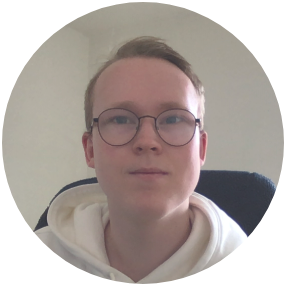
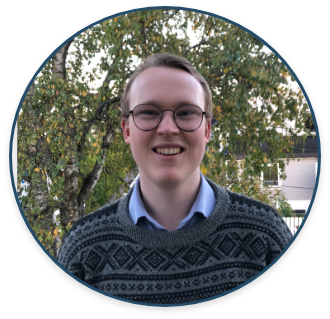
changed photos everywhere and added docker-compose file

diff --git a/src/components/ProjectsSection.js b/src/components/ProjectsSection.js
@@ -83,8 +83,8 @@ function ProjectSection() {
               </a>
 
               <img
-                src="/img/orkesterplass.png"
-                alt="screenshot of www.orkesterplass.no"
+                src="/img/skbapps.png"
+                alt="screenshot of this website"
                 width="400px"
                 height="280px"
               />
@@ -108,8 +108,8 @@ function ProjectSection() {
             >
               <h2 className="text-3xl text-center py-3">Andre småprosjekter</h2>
               <img
-                src="/img/orkesterplass.png"
-                alt="screenshot of www.orkesterplass.no"
+                src="/img/github.png"
+                alt="github-logo"
                 width="400px"
                 height="280px"
               />

diff --git a/src/components/ContactSection.js b/src/components/ContactSection.js
@@ -36,7 +36,7 @@ function ContactSection() {
         <div className="flex flex-wrap bg-ocean rounded-lg shadow-md px-12 py-8">
           <div className="ml-12">
             <div className="my-6">
-              <img src="/img/simon.png" alt="Simon Kinn Bjørnøy" />
+              <img src="/img/simon-contact.png" alt="Simon Kinn Bjørnøy" />
             </div>
           </div>
           <div className="ml-12 mr-8">

diff --git a/src/assets/styles/index.css b/src/assets/styles/index.css
@@ -43,7 +43,6 @@ code {
 
 .active {
   background-color: #364f6b;
-  box-shadow: #364f6b;
   color: white;
   opacity: 100%;
 }
